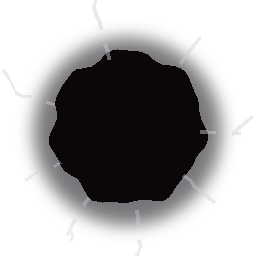
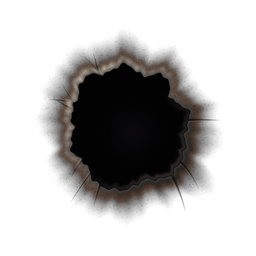
Bullet holes: a redrawn hole with a wisp of smoke; score bar count-up stays in its cell
- hole.png redrawn: torn lit rim, scorch ring, hairline tears, depth in the
  void (was a flat black blob).
- Each hole on a recap card gives off a thin wisp of smoke (CSS only; off
  under Reduce effects and OS reduce-motion). A hole punched this hand
  smokes harder.
- The score bar's tick flash no longer scales the number out of its cell.

diff --git a/apps/web/src/uiPass.css b/apps/web/src/uiPass.css
@@ -204,3 +204,44 @@ aside.soc-panel .matchup-picker > h3 + p.soc-muted { display: none; }
 }
 .tt-tricks-show { display: inline-flex; align-items: center; justify-content: center; gap: 8px; }
 .tt-tricks-show > .tt-tricks-chev { flex: none; opacity: .85; }
+
+/* ---- Bullet holes smoke ----
+   One <i> per hole (Intermission.tsx .shot-smoke), sitting on the hole's
+   slot. Two soft puffs rise from it in turn, drift, widen and thin out.
+   A hole punched this hand smokes harder for its first few seconds. */
+.shot-smoke { position: absolute; inset: 0; z-index: 6; pointer-events: none; }
+.shot-smoke i { position: absolute; width: 0; height: 0; }
+.shot-smoke i::before, .shot-smoke i::after {
+  content: ""; position: absolute; left: -9px; bottom: -2px; width: 18px; height: 30px; border-radius: 50%;
+  background: radial-gradient(closest-side, rgba(232,232,240,.55), rgba(232,232,240,.18) 55%, rgba(232,232,240,0));
+  filter: blur(3px); transform-origin: 50% 100%; opacity: 0;
+  animation: hole-smoke 3.6s ease-out infinite; animation-delay: calc(var(--i, 0) * -1.1s);
+}
+.shot-smoke i::after { animation-name: hole-smoke-b; animation-delay: calc(var(--i, 0) * -1.1s - 1.8s); }
+.shot-smoke i.fresh::before, .shot-smoke i.fresh::after { animation-duration: 2.2s; background: radial-gradient(closest-side, rgba(240,240,246,.8), rgba(240,240,246,.28) 55%, rgba(240,240,246,0)); }
+@keyframes hole-smoke {
+  0% { opacity: 0; transform: translate(0, 0) scale(.4, .3); }
+  14% { opacity: .5; }
+  55% { opacity: .26; transform: translate(6px, -24px) scale(1, 1) rotate(9deg); }
+  100% { opacity: 0; transform: translate(-2px, -46px) scale(1.7, 1.35) rotate(-5deg); }
+}
+@keyframes hole-smoke-b {
+  0% { opacity: 0; transform: translate(0, 0) scale(.4, .3); }
+  14% { opacity: .42; }
+  55% { opacity: .22; transform: translate(-5px, -22px) scale(.95, 1) rotate(-8deg); }
+  100% { opacity: 0; transform: translate(4px, -42px) scale(1.6, 1.3) rotate(6deg); }
+}
+@media (max-height: 560px) and (min-width: 560px) { .tt-team.notice .shot-smoke i { top: 76px !important; } }
+@media (max-height: 560px) and (min-width: 560px) and (max-width: 799px) { .tt-team.notice .shot-smoke i { top: 68px !important; } }
+@media (prefers-reduced-motion: reduce) { .shot-smoke { display: none; } }
+
+/* ---- Score bar: the count-up stays inside its cell ----
+   Owner, 2026-11-12: at the end of a hand "the numbers move outside their
+   bounding box". The shared tick flash scales the number 12% about its centre;
+   in the score bar's tight cell that pushed it over the cell's edge and into
+   the bags count. Here the flash is colour and glow only, anchored and sized
+   to stay inside the cell. */
+.bug-team .bug-score.tick { transform-origin: 0 100%; }
+.bug-team .bug-score.tick.up, .bug-team .bug-score.tick.down { transform: none; }
+.bug-team .bug-score.tick.up { text-shadow: 0 0 7px rgba(92,255,176,.75); }
+.bug-team .bug-score.tick.down { text-shadow: 0 0 7px rgba(255,77,109,.75); }

diff --git a/apps/web/src/Intermission.tsx b/apps/web/src/Intermission.tsx
@@ -436,6 +436,16 @@ export function Intermission({
                       ))}
                     </div>
                   )}
+                  {/* A thin wisp of smoke off every hole (owner, 2026-11-12). Its own layer, above the
+                      card's text, so the holes keep their place under it; one <i> per hole at the hole's
+                      slot. Decorative — CSS only; off under Reduce effects and OS reduce-motion (uiPass.css). */}
+                  {showHoles && !reduceFx && (
+                    <div className="shot-smoke" data-testid={`recap-smoke-${s.side}`} aria-hidden="true">
+                      {holeSlots(!!cover.sheet).slice(0, info.visible).map((h, i) => (
+                        <i key={i} className={anim.current!.punch.has(`${s.side}:${i}`) ? 'fresh' : undefined} style={{ left: h.x, top: h.y, ['--i' as string]: i }} />
+                      ))}
+                    </div>
+                  )}
                   {cover.sheet && (
                     <p className="tod" data-testid="time-of-death" data-hand={rec.handNo}>{tod}</p>
                   )}
